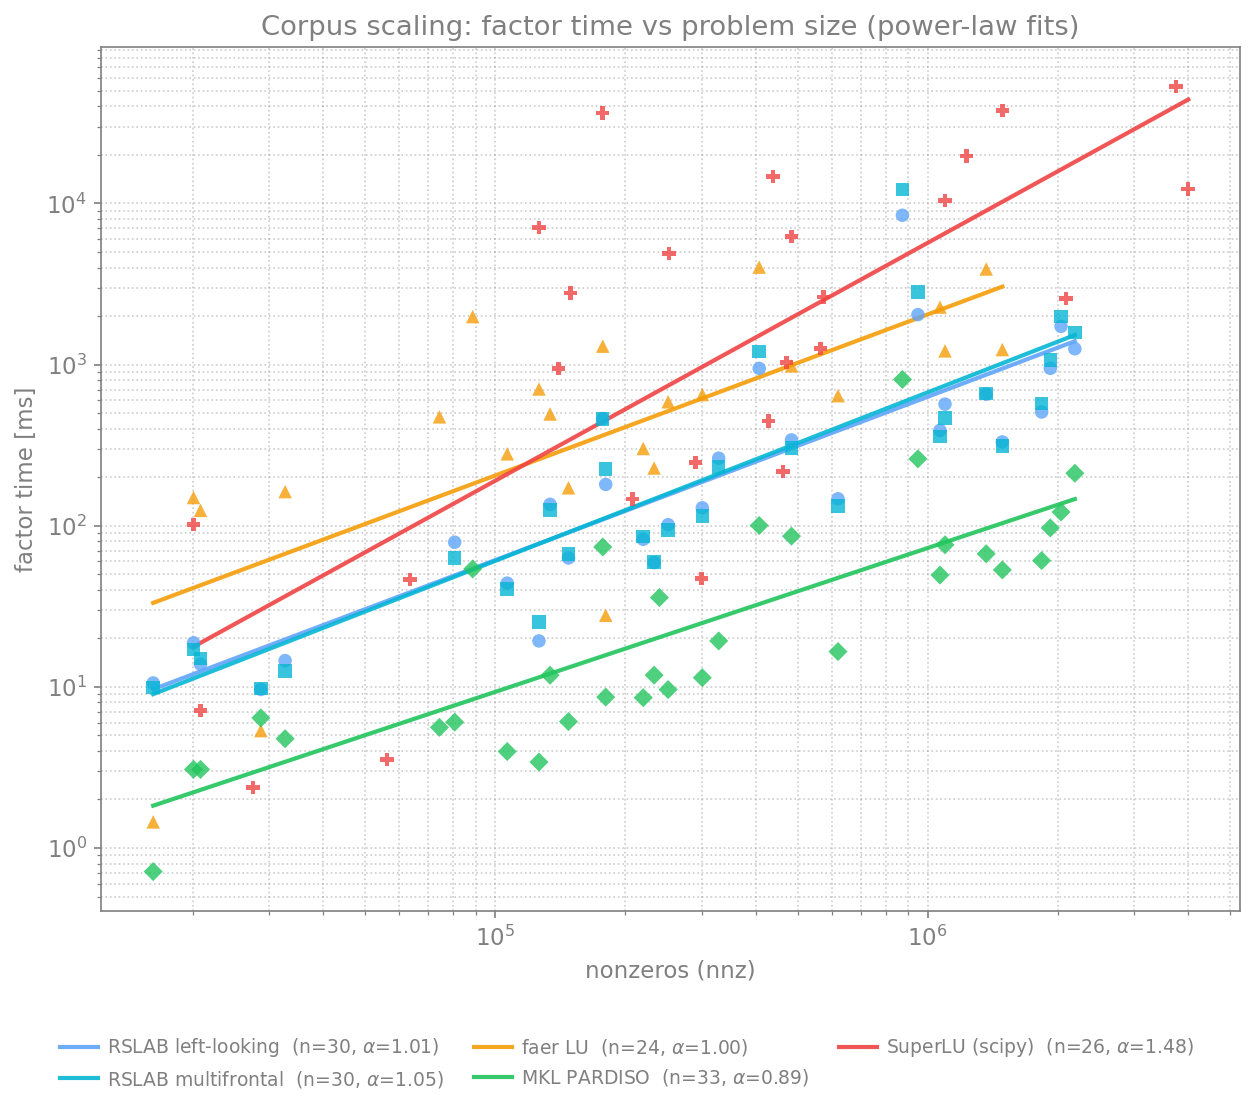
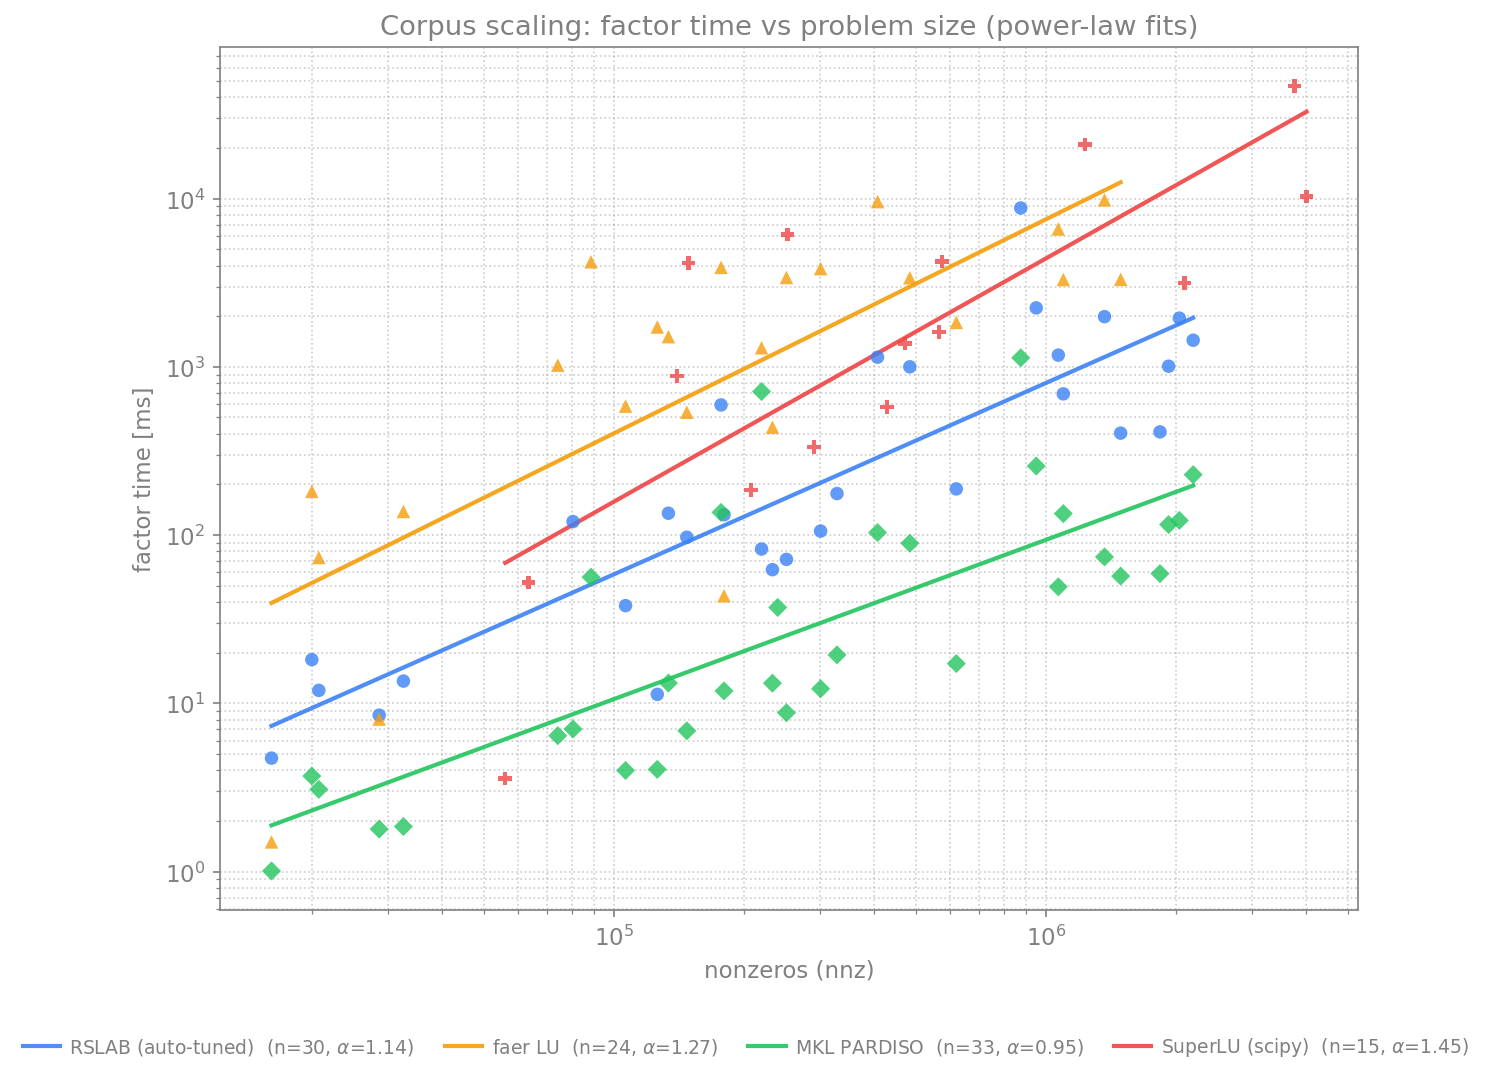
Korpus-Vergleich: RSLAB auto-tuned Default-Kurve statt LL/MF (same-run vs faer/PARDISO/SuperLU); README-Tabelle + Reproduktions-Skript

diff --git a/benches/fit_scaling.py b/benches/fit_scaling.py
@@ -1,8 +1,8 @@
 """Corpus scaling study: factor time vs problem size for all five solvers, with
 a power-law fit through each solver's corpus points.
 
-Reads the merged corpus JSONL (RSLAB left-looking / multifrontal, faer, MKL
-PARDISO, SuperLU) and plots `fac_ms` against `nnz` on log-log axes - one scatter
+Reads the corpus JSONL (RSLAB auto-tuned default, faer, MKL PARDISO, SuperLU -
+all measured in one run) and plots `fac_ms` against `nnz` on log-log axes - one scatter
 of corpus points per solver plus a least-squares power-law fit
 `fac = C * nnz^alpha` (the fitted exponent is the empirical scaling order,
 printed in the legend). Garbage points (relative residual > 0.1) are excluded
@@ -22,7 +22,11 @@ import matplotlib.pyplot as plt
 import bench_style
 from bench_style import GRAY, SOLVERS
 
-ORDER = ["ll", "mf", "faer", "pardiso", "superlu"]
+# The auto-tuned default (`LdltSolver::factor` / `LuSolver::factor`) is the product
+# RSLAB ships: per matrix it picks left-looking or multifrontal under the memory /
+# OOD guards. We plot that single curve against the external solvers rather than the
+# two raw kernels (those are compared internally in corpus_breakdown.py).
+ORDER = ["auto", "faer", "pardiso", "superlu"]
 
 
 def plot_metric(recs, metric, value_key, ylabel, title, out):

diff --git a/README.md b/README.md
@@ -50,19 +50,23 @@ Each point is one corpus matrix; the line is a least-squares power-law fit
 `~ nnz^α` (the empirical scaling order), garbage solves (`‖Ax-b‖/‖b‖ > 0.1`)
 excluded from the fit.
 
+The RSLAB curve is the **auto-tuned default** (`LdltSolver::factor` /
+`LuSolver::factor`) - the solver as shipped, picking left-looking or multifrontal
+per matrix under the memory / OOD guards (the two raw kernels are compared
+separately in the memory-breakdown figure below). All four solvers were measured
+in **one run** on the same machine, so the exponents are directly comparable.
+
 | solver | factor time `α` | peak memory `α` |
 |--------|:---------------:|:---------------:|
-| MKL PARDISO        | **0.89** | 0.96 |
-| faer LU            | 1.00 | 1.21 |
-| RSLAB left-looking | 1.01 | **0.87** |
-| RSLAB multifrontal | 1.05 | 0.98 |
-| SuperLU (SciPy)    | 1.48 | 1.04 |
+| MKL PARDISO         | **0.95** | **0.96** |
+| RSLAB (auto-tuned)  | 1.14 | 1.11 |
+| faer LU             | 1.27 | 1.21 |
+| SuperLU (SciPy)     | 1.45 | 1.19 |
 
-RSLAB matches faer on factor-time order and trails PARDISO's decades-tuned
-sublinear `0.89`. On **peak memory RSLAB left-looking has the lowest growth of
-all (`0.87`)** - ahead of PARDISO and well ahead of faer - the memory efficiency
-the design targets. SuperLU does not exploit symmetry, so its fill (and factor
-time) grows steeply (`1.48`).
+RSLAB's auto-tuned default sits between PARDISO and faer on both axes: it beats
+faer and SuperLU on factor-time *and* peak-memory growth, and trails only
+PARDISO's decades-tuned sublinear order. SuperLU does not exploit symmetry, so its
+fill (and factor time) grows steeply (`1.45`).
 
 ### Thread scaling
 
@@ -134,7 +138,7 @@ along the time/memory trade-off.
 
 Relative residual `‖Ax-b‖/‖b‖` as the accuracy check across the corpus.
 
-- Where RSLAB factors, it is accurate: 24/30 matrices below `1e-8` residual, matching
+- Where RSLAB factors, it is accurate: 24/31 matrices below `1e-8` residual, matching
   PARDISO and ahead of faer, which returns a degraded or garbage solution on several
   (pdb1HYS, bcsstk18, msc10848, wang3).
 - Exact-mode limit: RSLAB's exact LDLᵀ (pivoting bounded to each supernode) cannot